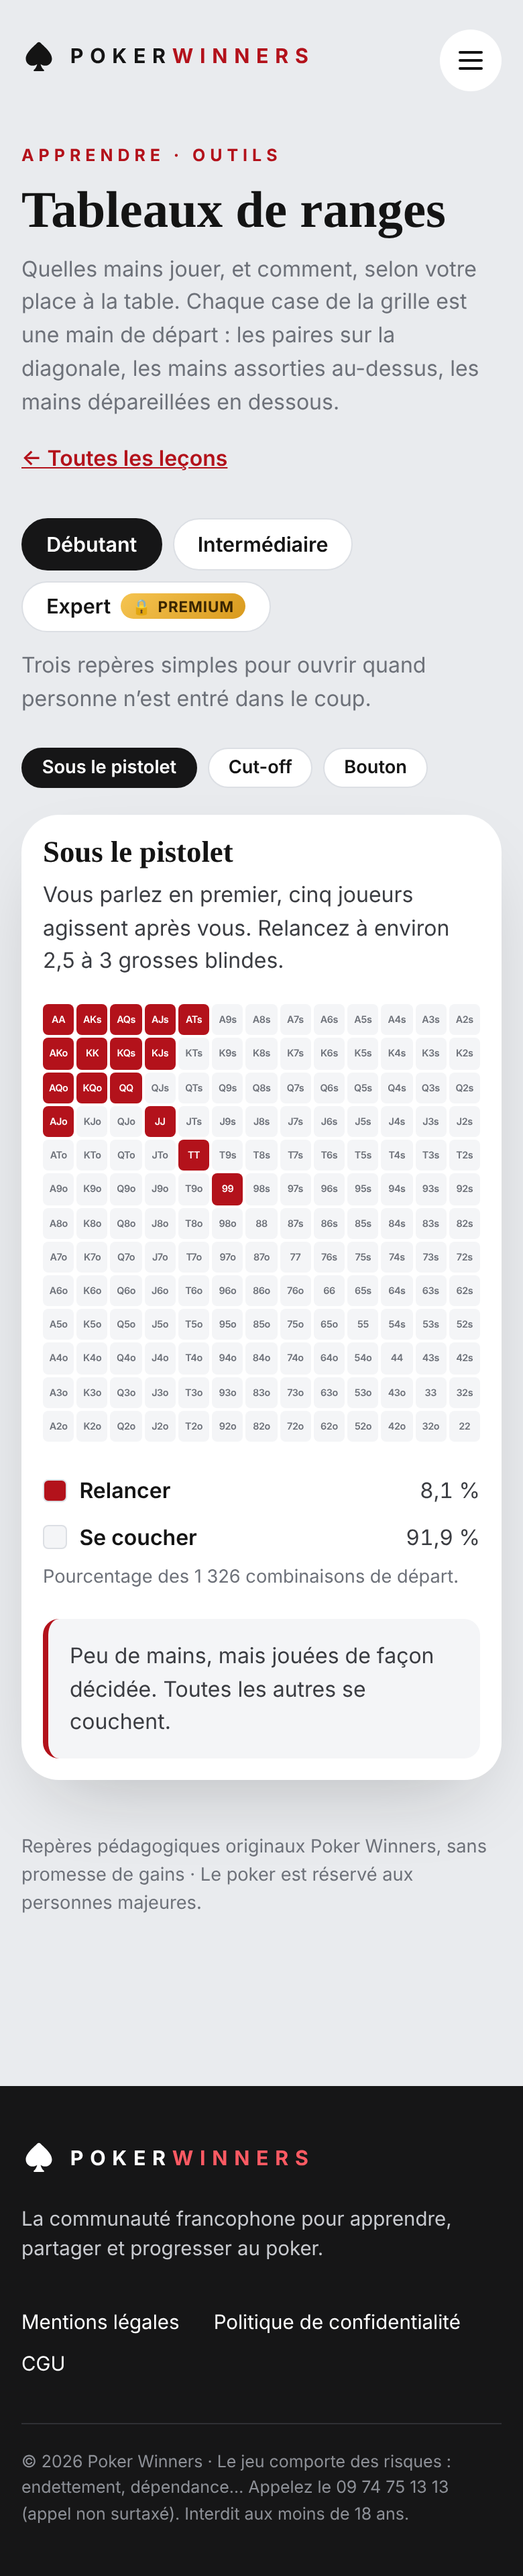
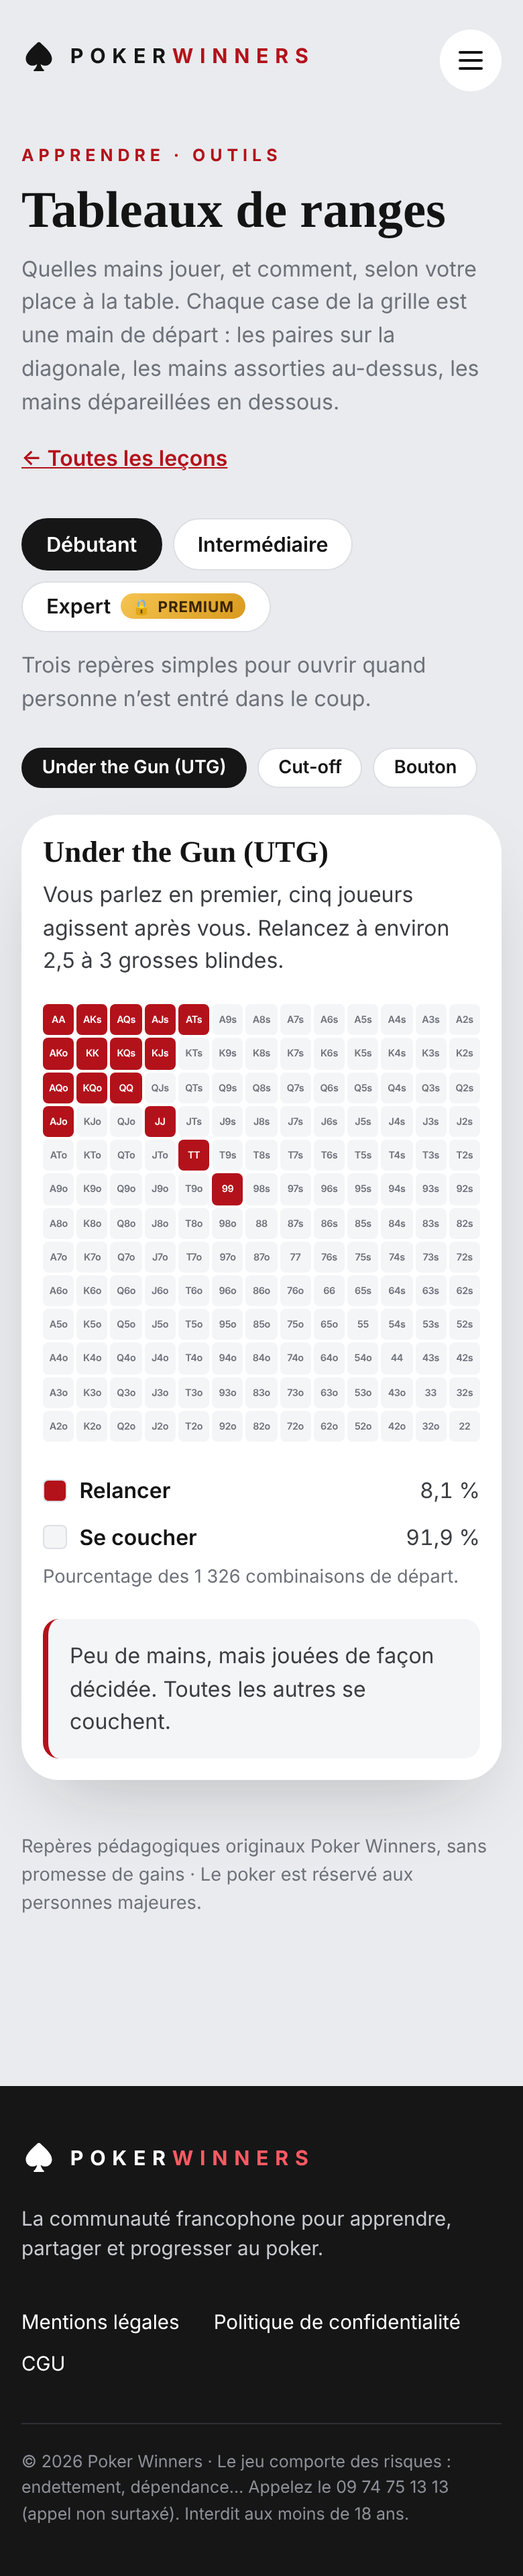
Ranges : « Sous le pistolet » renommé « Under the Gun (UTG) »
Claude-Session: https://claude.ai/code/session_01X6cPW8r96kb1ooNjT7qiuD

Changed region(s): [[0.0923, 0.2791, 0.5538, 0.3411], [0.6154, 0.2791, 0.7692, 0.3101], [0.8, 0.2791, 0.8308, 0.3101]]

diff --git a/frontPoker/src/app/features/lessons/ranges/ranges.data.ts b/frontPoker/src/app/features/lessons/ranges/ranges.data.ts
@@ -60,7 +60,7 @@ const COMMON_NOTE =
 export const BEGINNER_CHARTS: RangeChart[] = [
   {
     id: 'debutant-utg',
-    title: 'Sous le pistolet',
+    title: 'Under the Gun (UTG)',
     situation: 'Vous parlez en premier, cinq joueurs agissent après vous. Relancez à environ 2,5 à 3 grosses blindes.',
     actions: [{ key: 'raise', label: 'Relancer', hands: '99+, AJ+, KQ, ATs, KJs' }],
     note: 'Peu de mains, mais jouées de façon décidée. Toutes les autres se couchent.',
@@ -84,7 +84,7 @@ export const BEGINNER_CHARTS: RangeChart[] = [
 export const INTERMEDIATE_CHARTS: RangeChart[] = [
   {
     id: 'intermediaire-utg',
-    title: 'Sous le pistolet (UTG)',
+    title: 'Under the Gun (UTG)',
     situation: 'Table à six, premier à parler. Ouverture à 2,5 BB.',
     actions: [{ key: 'raise', label: 'Ouvrir', hands: '22+, A2s+, KTs+, QTs+, JTs, T9s, ATo+, KQo' }],
     note: COMMON_NOTE,
